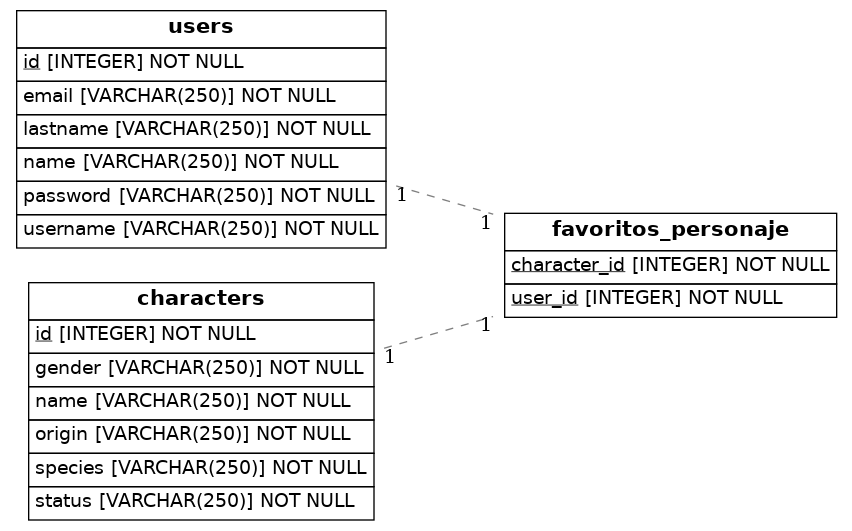
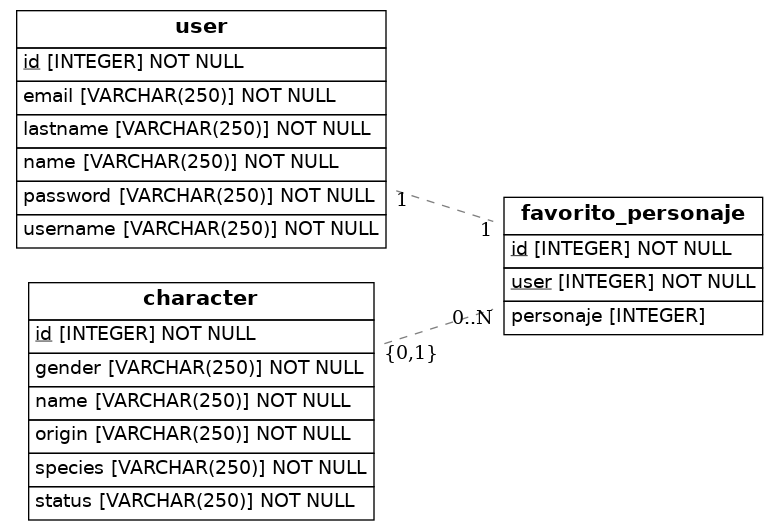
first-commit

diff --git a/src/models.py b/src/models.py
@@ -6,17 +6,9 @@ from sqlalchemy import create_engine
 from eralchemy2 import render_er
 
 Base = declarative_base()
-class Favoritos_Personajes(Base):
-    __tablename__ = 'favoritos_personaje'
-    # Here we define columns for the table person
-    # Notice that each column is also a normal Python instance attribute.
-    user_id = Column(ForeignKey('users.id'), primary_key=True)
-    character_id = Column(ForeignKey('characters.id'), primary_key=True)
-    character = relationship('Character', back_populates='users')
-    user = relationship('User', back_populates='characters')
 
 class User(Base):
-    __tablename__ = 'users'
+    __tablename__ = 'user'
     # Here we define columns for the table person
     # Notice that each column is also a normal Python instance attribute.
     id = Column(Integer, primary_key=True)
@@ -25,11 +17,18 @@ class User(Base):
     username = Column(String(250), nullable=False)
     email = Column(String(250), nullable=False)
     password = Column(String(250), nullable=False)
-    characters = relationship('Favoritos_Personajes', back_populates='user')
+    favorito = relationship("Favoritos_Personajes")
 
+class Favoritos_Personajes(Base):
+    __tablename__ = 'favorito_personaje'
+    # Here we define columns for the table person
+    # Notice that each column is also a normal Python instance attribute.
+    id = Column(Integer, primary_key=True)
+    user = Column(Integer, ForeignKey('user.id'), primary_key=True)
+    personaje = Column(Integer, ForeignKey('character.id', primary_key=True))
 
 class Character(Base):
-    __tablename__ = 'characters'
+    __tablename__ = 'character'
     # Here we define columns for the table address.
     # Notice that each column is also a normal Python instance attribute.
     id = Column(Integer, primary_key=True)
@@ -38,8 +37,9 @@ class Character(Base):
     gender = Column(String(250), nullable=False)
     species = Column(String(250), nullable=False)
     origin =  Column(String(250), nullable=False)
-    favorito = relationship('Favoritos_Personajes')
-    users = relationship('Favoritos_Personajes', back_populates='character')
+    favorito = relationship("Favoritos_Personajes")
+
+
 
 
 def to_dict(self):
